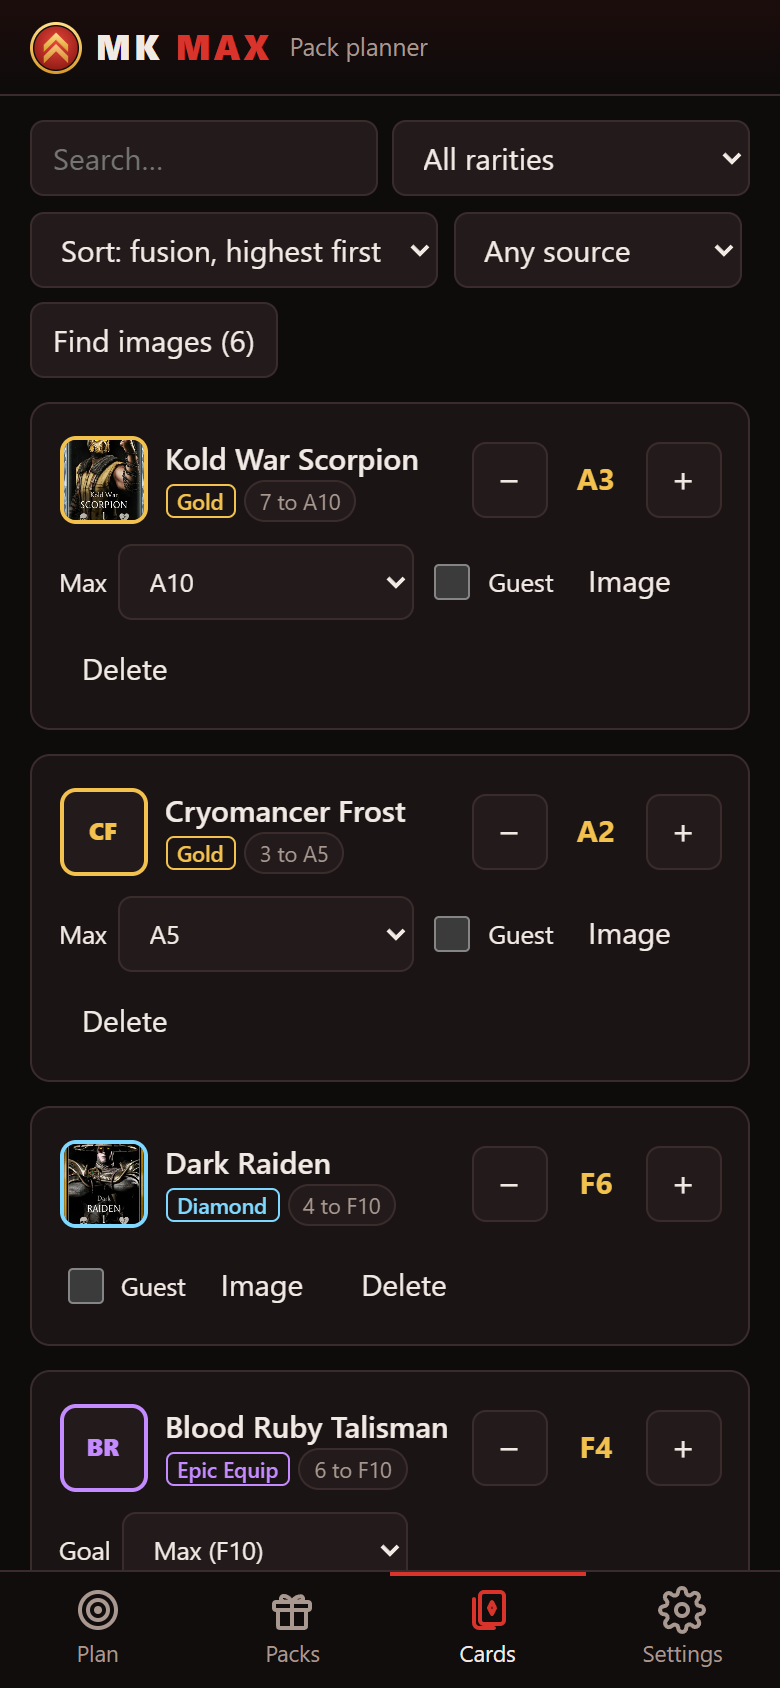
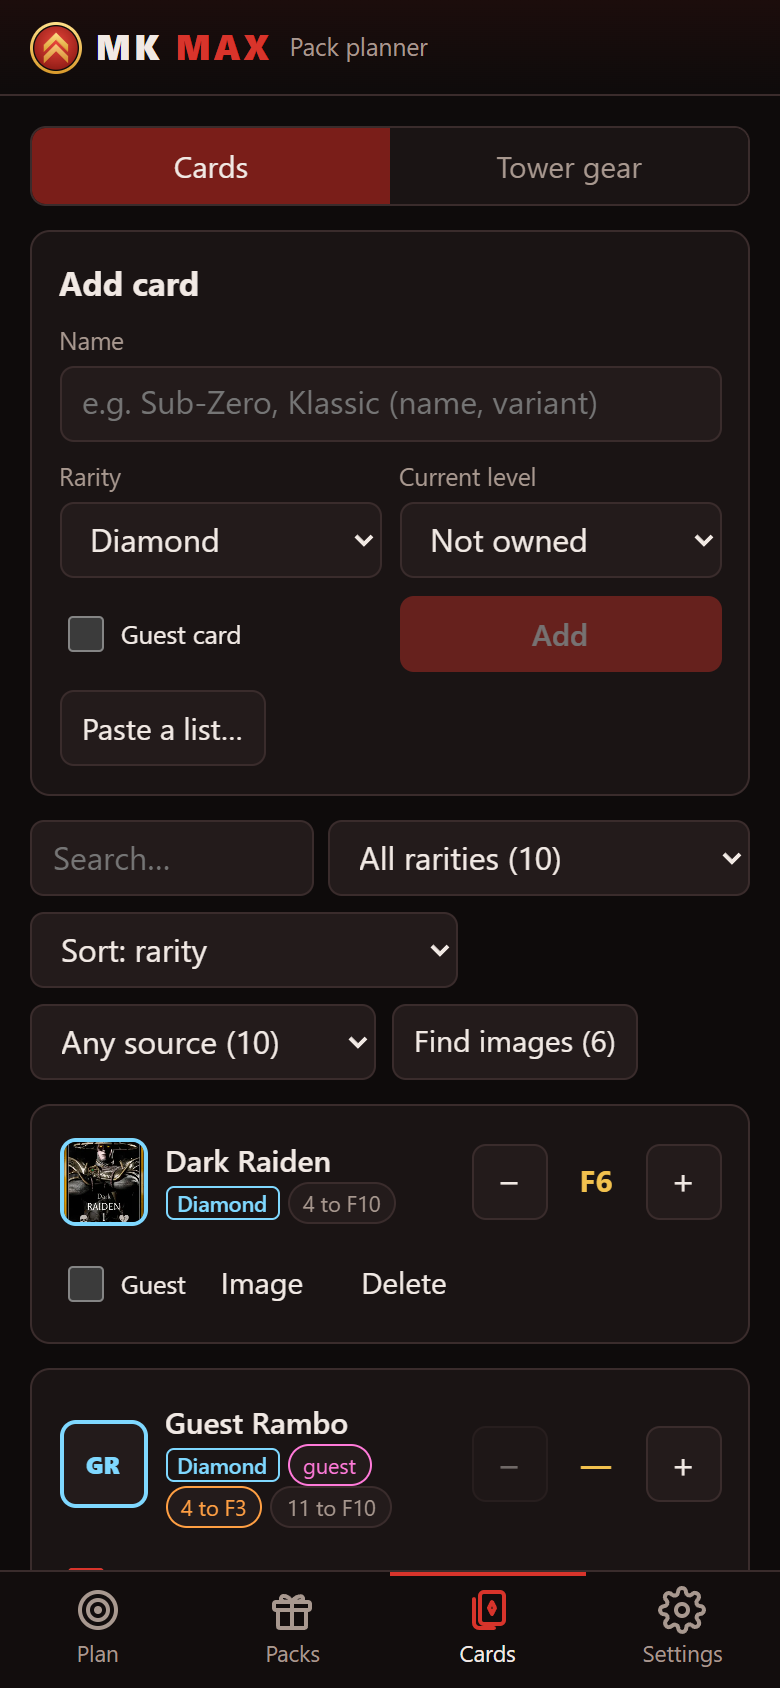
fix: remove Time Krystals, which only exist in the console games: drop them from new installs and, once, from saves that don't use them, and retake the README screenshots

diff --git a/src/engine.test.ts b/src/engine.test.ts
@@ -245,6 +245,16 @@ describe('phases', () => {
     expect(normalize({ ...defaultState(), version: 9, packs: [pack] }).packs[0].name).toBe('Kollector’s Diamond Kasket');
   });
 
+  it('drops an unused Time Krystals currency once, keeping one that is in use', () => {
+    const tk = { id: 'time-krystals', name: 'Time Krystals', balance: 0 };
+    const old = { ...defaultState(), version: 10, currencies: [...defaultState().currencies, tk] };
+    expect(normalize(old).currencies.map((c) => c.id)).not.toContain('time-krystals');
+    const kept = { ...old, currencies: [...defaultState().currencies, { ...tk, balance: 40 }] };
+    expect(normalize(kept).currencies.map((c) => c.id)).toContain('time-krystals');
+    const added = { ...defaultState(), currencies: [...defaultState().currencies, tk] };
+    expect(normalize(added).currencies.map((c) => c.id)).toContain('time-krystals');
+  });
+
   it('gives Blood Rubies a daily income once, keeping one that was cleared', () => {
     const old = { ...defaultState(), version: 9, currencies: defaultState().currencies.map(({ perDay: _, ...c }) => c) };
     expect(normalize(old).currencies.find((c) => c.id === 'blood-rubies')?.perDay).toBe(65);

diff --git a/src/normalize.ts b/src/normalize.ts
@@ -94,7 +94,7 @@ export function normalize(input: unknown): AppState {
   }
   const base = defaultState();
   const out: AppState = {
-    version: 10,
+    version: 11,
     rarities: s.rarities?.length
       ? s.rarities.map((r) => ({
           ...r,
@@ -133,6 +133,12 @@ export function normalize(input: unknown): AppState {
   if (version < 10) {
     out.packs = out.packs.map((p) => (/’S\b/.test(p.name) ? { ...p, name: p.name.replace(/’S\b/g, '’s') } : p));
     out.currencies = out.currencies.map((c) => (c.id === REALM_KLASH_CURRENCY && c.perDay === undefined ? { ...c, perDay: 65 } : c));
+  }
+  // Version 11 drops Time Krystals, which only exist in the console games, once, unless a pack is priced in them or
+  // there's a balance or daily income to keep.
+  if (version < 11) {
+    const used = (id: string) => out.packs.some((p) => p.currencyId === id);
+    out.currencies = out.currencies.filter((c) => c.id !== 'time-krystals' || used(c.id) || c.balance > 0 || !!c.perDay);
   }
   pruneDone(out);
   return out;

diff --git a/src/types.ts b/src/types.ts
@@ -112,8 +112,8 @@ export interface Weights {
 }
 
 export interface AppState {
-  /** 2 = levels stored from F0 (first copy = 1; version 1 stored it as F1). 3 = added a Kameo rarity. 4 = split it into Diamond and Gold Kameos. 5 = tagged challenge Kameos. 6 = added Uncommon gear. 7 = untagged retired challenge Kameos. 8–9 = renamed packs and cards to the game's spelling. 10 = fixed "Kollector’S" pack names and gave Blood Rubies a daily income. */
-  version: 10;
+  /** 2 = levels stored from F0 (first copy = 1; version 1 stored it as F1). 3 = added a Kameo rarity. 4 = split it into Diamond and Gold Kameos. 5 = tagged challenge Kameos. 6 = added Uncommon gear. 7 = untagged retired challenge Kameos. 8–9 = renamed packs and cards to the game's spelling. 10 = fixed "Kollector’S" pack names and gave Blood Rubies a daily income. 11 = removed Time Krystals (console-only) when unused. */
+  version: 11;
   rarities: RarityRule[];
   currencies: Currency[];
   cards: Card[];

diff --git a/src/defaults.ts b/src/defaults.ts
@@ -44,13 +44,12 @@ export function defaultRarities(): RarityRule[] {
 
 export function defaultState(): AppState {
   return {
-    version: 10,
+    version: 11,
     rarities: defaultRarities(),
     currencies: [
       { id: 'souls', name: 'Souls', balance: 0 },
       { id: 'blood-rubies', name: 'Blood Rubies', balance: 0, perDay: 65 },
       { id: 'dragon-krystals', name: 'Dragon Krystals', balance: 0 },
-      { id: 'time-krystals', name: 'Time Krystals', balance: 0 },
     ],
     cards: [],
     packs: [],

diff --git a/README.md b/README.md
@@ -15,7 +15,7 @@
 
 ## Features
 
-- **Purchase plan.** For each currency (Souls, Blood Rubies, Dragon Krystals, Time Krystals, or any you add) it recommends what to buy, putting limited-time packs first, and tells you when to save for a pack that hasn't started yet. Tap a pack to jump to it, or log a purchase without leaving the plan. With a daily income set, it says when you'll afford what it's saving for.
+- **Purchase plan.** For each currency (Souls, Blood Rubies, Dragon Krystals, or any you add) it recommends what to buy, putting limited-time packs first, and tells you when to save for a pack that hasn't started yet. Tap a pack to jump to it, or log a purchase without leaving the plan. With a daily income set, it says when you'll afford what it's saving for.
 - **Pack ranking.** Compares packs by expected value per cost, showing your chance of each card you need per buy and about how many buys a copy takes.
 - **Fusion Up Kard plan.** Spends kards on the cheapest steps first, by rarity, through ascension for Gold cards.
 - **Blood Ruby gear order.** Maxes the Realm Klash gear one piece at a time, in an order you choose, before any other Blood Ruby buy, and forecasts the date each piece and the whole set will be maxed.
